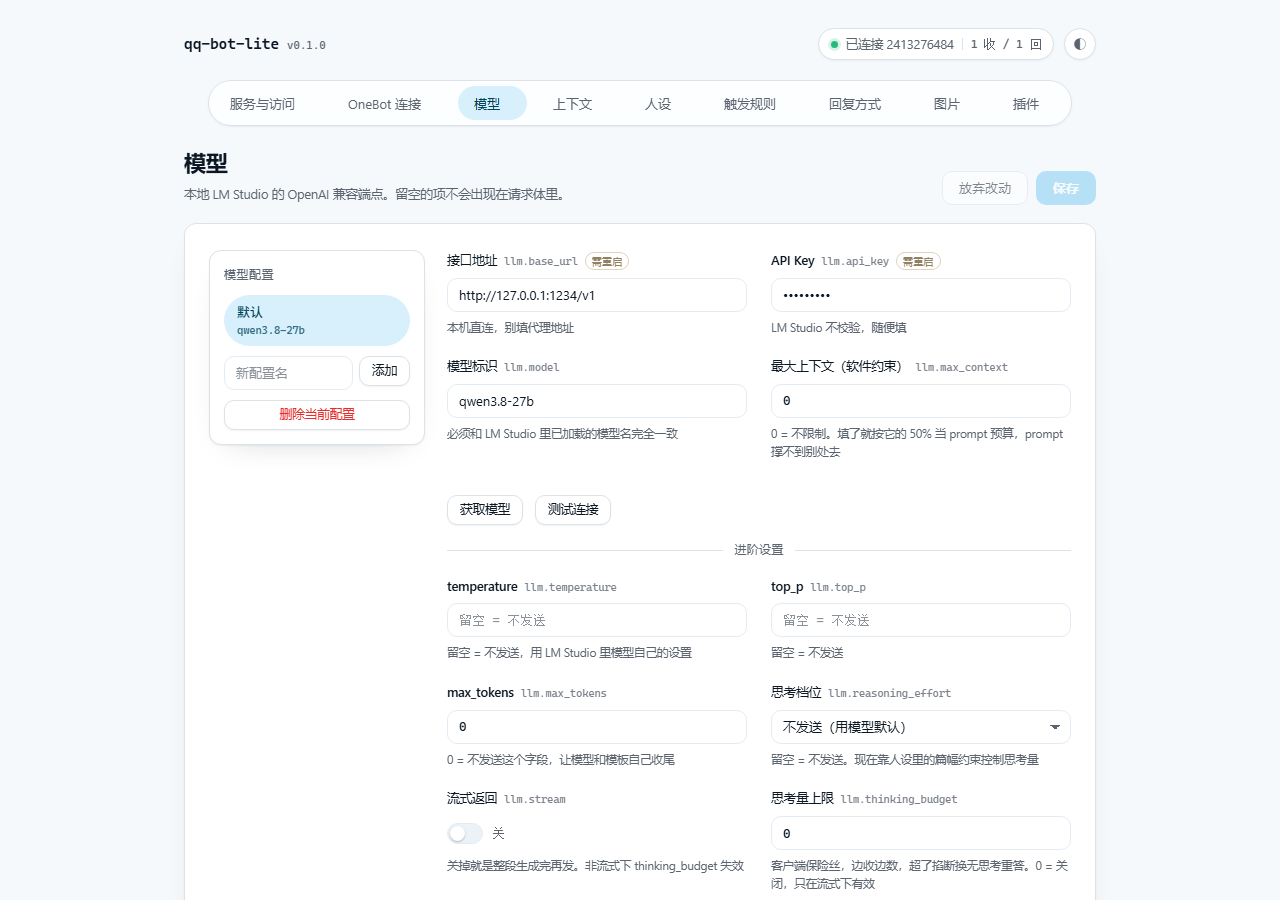
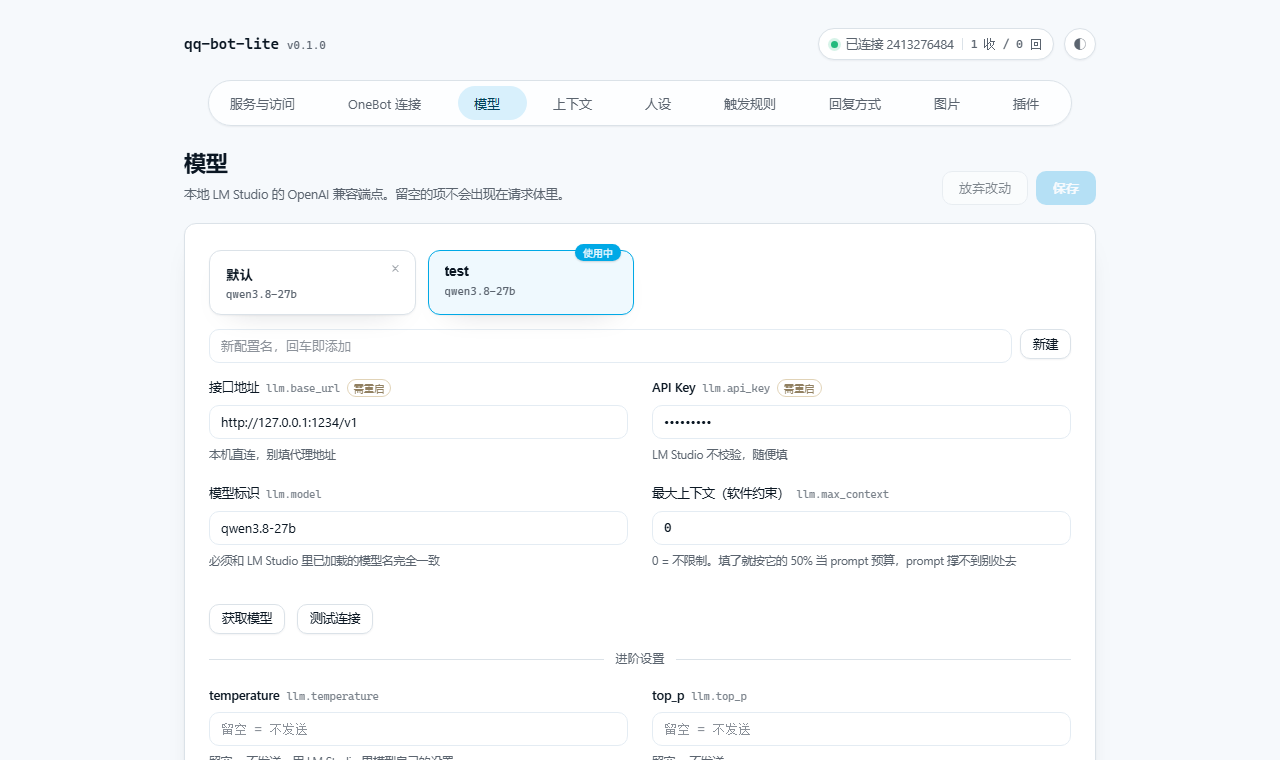
fix(web): 模型页改成和人设一样的方块卡片，删除改成卡上直接点
原来模型用左侧气泡 + 下方小卡片，与人设页不统一；而且“删除”只有
一个“删除当前配置”按钮：想删谁就得先选中谁，一选中它就成了正在使用，
永远删不掉，是个死循环。

- 两个面板共用一套实体卡片（entity-card）：名称 + 一行小字 + 使用中角标
- 非当前的卡片右上角有 × ，点了直接删；当前那张不给 ×，
  避免误删正在跑的那套
- 新增行统一成“输入框 + 新建”，回车即可提交
- 模型页去掉左栏，卡片在上、表单在下，与人设页布局一致
- 保存 llm.* 时会重建连接池，所以接口地址 / API Key 不再标“需重启”

diff --git a/app/web/static/panels.js b/app/web/static/panels.js
@@ -7,33 +7,30 @@ const PERSONAS = { items: [], active: "" };
 /* ---------- 模型 ---------- */
 
 function modelPanel(section) {
-  const wrap = el("div", "split-layout");
+  const wrap = el("div", "entity-panel");
 
-  const side = el("aside", "split-side");
-  side.append(el("div", "split-title", "模型配置"));
-  const list = el("div", "bubble-list");
+  const list = el("div", "entity-cards");
   list.id = "model-list";
-  side.append(list);
+  wrap.append(list);
 
-  const addRow = el("div", "split-add");
+  const addRow = el("div", "entity-add");
   const input = document.createElement("input");
   input.type = "text";
   input.id = "model-new";
-  input.placeholder = "新配置名";
-  const add = el("button", "btn btn-sm", "添加");
+  input.placeholder = "新配置名，回车即添加";
+  input.addEventListener("keydown", (event) => {
+    if (event.key === "Enter") {
+      event.preventDefault();
+      createModel();
+    }
+  });
+  const add = el("button", "btn btn-sm", "新建");
   add.type = "button";
   add.addEventListener("click", createModel);
   addRow.append(input, add);
-  side.append(addRow);
+  wrap.append(addRow);
 
-  const remove = el("button", "btn btn-sm split-danger", "删除当前配置");
-  remove.type = "button";
-  remove.id = "model-delete";
-  remove.addEventListener("click", deleteModel);
-  side.append(remove);
-  wrap.append(side);
-
-  const main = el("div", "split-main");
+  const main = el("div", "entity-body");
   const basic = el("div", "grid");
   const advanced = el("div", "grid");
   for (const field of section.fields) {
@@ -119,22 +116,47 @@ async function loadModels() {
   }
 }
 
+function entityCard({ title, meta, active, badge, onActivate, onDelete }) {
+  const card = el("button", "entity-card");
+  card.type = "button";
+  if (active) card.classList.add("active");
+  card.append(el("span", "entity-name", title));
+  card.append(el("span", "entity-meta", meta));
+  if (active && badge) card.append(el("span", "entity-badge", badge));
+  card.addEventListener("click", onActivate);
+
+  if (onDelete && !active) {
+    const del = el("span", "entity-del", "×");
+    del.setAttribute("role", "button");
+    del.setAttribute("title", "删除");
+    del.addEventListener("click", (event) => {
+      event.stopPropagation();
+      onDelete();
+    });
+    card.append(del);
+  }
+  return card;
+}
+
 function paintModels() {
   const list = $("model-list");
   if (!list) return;
   list.textContent = "";
   if (!MODELS.items.length) {
-    list.append(el("p", "hint", "还没有保存过的配置。改好参数后点「添加」存一套。"));
+    list.append(el("p", "hint", "还没有保存过的配置。改好参数后点「新建」存一套。"));
     return;
   }
   for (const item of MODELS.items) {
-    const button = el("button", "bubble");
-    button.type = "button";
-    if (item.active) button.classList.add("active");
-    button.append(el("span", "bubble-name", item.name));
-    button.append(el("span", "bubble-sub", item.model || "未指定模型"));
-    button.addEventListener("click", () => activateModel(item.name));
-    list.append(button);
+    list.append(
+      entityCard({
+        title: item.name,
+        meta: item.model || "未指定模型",
+        active: item.active,
+        badge: "使用中",
+        onActivate: () => activateModel(item.name),
+        onDelete: () => deleteModel(item.name),
+      }),
+    );
   }
 }
 
@@ -195,16 +217,16 @@ async function createModel() {
   }
 }
 
-async function deleteModel() {
-  if (!MODELS.active) {
-    toast("当前没有生效的配置", "bad");
+async function deleteModel(name) {
+  if (!name || name === MODELS.active) {
+    toast("正在用的配置不能删，先切到别的", "bad");
     return;
   }
   try {
     const response = await fetch("/api/models", {
       method: "POST",
       headers: { "Content-Type": "application/json" },
-      body: JSON.stringify({ action: "delete", name: MODELS.active }),
+      body: JSON.stringify({ action: "delete", name }),
     });
     const data = await response.json();
     if (!response.ok || !data.ok) {
@@ -213,7 +235,7 @@ async function deleteModel() {
     }
     MODELS.items = data.items || [];
     paintModels();
-    toast("已删除");
+    toast(`已删除「${name}」`);
   } catch (error) {
     toast(`删除失败：${error.message}`, "bad");
   }
@@ -222,23 +244,26 @@ async function deleteModel() {
 /* ---------- 人设 ---------- */
 
 function personaPanel() {
-  const wrap = el("div", "persona-panel");
-  const cards = el("div", "persona-cards");
+  const wrap = el("div", "entity-panel");
+  const cards = el("div", "entity-cards");
   cards.id = "persona-cards";
   wrap.append(cards);
 
-  const addRow = el("div", "split-add persona-add");
+  const addRow = el("div", "entity-add");
   const input = document.createElement("input");
   input.type = "text";
   input.id = "persona-new";
-  input.placeholder = "新人设名";
+  input.placeholder = "新人设名，回车即新建";
+  input.addEventListener("keydown", (event) => {
+    if (event.key === "Enter") {
+      event.preventDefault();
+      createPersona();
+    }
+  });
   const add = el("button", "btn btn-sm", "新建");
   add.type = "button";
   add.addEventListener("click", createPersona);
-  const remove = el("button", "btn btn-sm", "删除当前");
-  remove.type = "button";
-  remove.addEventListener("click", deletePersona);
-  addRow.append(input, add, remove);
+  addRow.append(input, add);
   wrap.append(addRow);
 
   const editor = el("div", "editor");
@@ -295,14 +320,16 @@ function paintPersonas() {
   if (!host) return;
   host.textContent = "";
   for (const item of PERSONAS.items) {
-    const card = el("button", "persona-card");
-    card.type = "button";
-    if (item.active) card.classList.add("active");
-    card.append(el("span", "persona-name", item.name));
-    card.append(el("span", "persona-meta", `${item.chars} 字`));
-    if (item.active) card.append(el("span", "persona-badge", "使用中"));
-    card.addEventListener("click", () => activatePersona(item.name));
-    host.append(card);
+    host.append(
+      entityCard({
+        title: item.name,
+        meta: `${item.chars} 字`,
+        active: item.active,
+        badge: "使用中",
+        onActivate: () => activatePersona(item.name),
+        onDelete: () => deletePersona(item.name),
+      }),
+    );
   }
 }
 
@@ -358,10 +385,13 @@ async function createPersona() {
   }
 }
 
-async function deletePersona() {
-  if (!PERSONAS.active) return;
+async function deletePersona(name) {
+  if (!name || name === PERSONAS.active) {
+    toast("正在用的人设不能删，先切到别的", "bad");
+    return;
+  }
   try {
-    const response = await fetch(`/api/personas/${encodeURIComponent(PERSONAS.active)}`, { method: "DELETE" });
+    const response = await fetch(`/api/personas/${encodeURIComponent(name)}`, { method: "DELETE" });
     const data = await response.json();
     if (!response.ok || !data.ok) {
       toast(data.message || "删除失败", "bad");
@@ -369,7 +399,7 @@ async function deletePersona() {
     }
     PERSONAS.items = data.items || [];
     paintPersonas();
-    toast("已删除，正在使用的人设不能删");
+    toast(`已删除「${name}」`);
   } catch (error) {
     toast(`删除失败：${error.message}`, "bad");
   }

diff --git a/app/web/static/style.css b/app/web/static/style.css
@@ -797,3 +797,86 @@ select {
   .split-layout { grid-template-columns: 1fr; }
   .split-side { position: static; }
 }
+
+/* ---------- 卡片列表（模型 / 人设共用） ---------- */
+
+.entity-panel { display: grid; gap: 14px; }
+.entity-cards {
+  display: grid;
+  grid-template-columns: repeat(auto-fill, minmax(188px, 1fr));
+  gap: 12px;
+}
+.entity-cards:empty { display: none; }
+
+.entity-card {
+  position: relative;
+  display: grid;
+  gap: 4px;
+  padding: 13px 16px;
+  text-align: left;
+  border: 1px solid var(--border);
+  border-radius: var(--radius);
+  background: var(--card);
+  color: var(--foreground);
+  cursor: pointer;
+  box-shadow: var(--shadow-card);
+  transition: border-color .15s ease, background .15s ease, transform .06s ease;
+}
+.entity-card:hover { border-color: color-mix(in oklab, var(--border) 45%, var(--muted-foreground)); }
+.entity-card:active { transform: translateY(1px); }
+.entity-card.active {
+  border-color: var(--ring);
+  background: color-mix(in oklab, var(--accent) 42%, var(--card));
+}
+.entity-name {
+  font-size: 13.5px;
+  font-weight: 600;
+  padding-right: 24px;
+  overflow: hidden;
+  text-overflow: ellipsis;
+  white-space: nowrap;
+}
+.entity-meta {
+  font-family: var(--mono);
+  font-size: 11px;
+  color: var(--muted-foreground);
+  overflow: hidden;
+  text-overflow: ellipsis;
+  white-space: nowrap;
+}
+.entity-badge {
+  position: absolute;
+  top: -7px;
+  right: 12px;
+  font-size: 10px;
+  padding: 1px 8px;
+  border-radius: 999px;
+  background: var(--primary);
+  color: var(--primary-foreground);
+  box-shadow: 0 1px 2px oklch(0% 0 0/.15);
+}
+.entity-del {
+  position: absolute;
+  top: 7px;
+  right: 8px;
+  width: 22px;
+  height: 22px;
+  display: grid;
+  place-items: center;
+  border-radius: 999px;
+  font-size: 15px;
+  line-height: 1;
+  color: var(--muted-foreground);
+  opacity: .55;
+  transition: background .15s ease, color .15s ease, opacity .15s ease;
+}
+.entity-card:hover .entity-del { opacity: 1; }
+.entity-del:hover {
+  background: color-mix(in oklab, var(--destructive) 16%, transparent);
+  color: var(--destructive);
+}
+
+.entity-add { display: flex; gap: 8px; }
+.entity-add input { flex: 1; min-width: 0; }
+.entity-add button { flex: none; }
+.entity-body { display: grid; gap: 16px; }

diff --git a/app/web/schema.py b/app/web/schema.py
@@ -81,8 +81,8 @@ SECTIONS: list[dict[str, Any]] = [
         "title": "模型",
         "desc": "本地 LM Studio 的 OpenAI 兼容端点。留空的项不会出现在请求体里。",
         "fields": [
-            _f("llm.base_url", "接口地址", help="本机直连，别填代理地址", restart=True),
-            _f("llm.api_key", "API Key", "password", help="LM Studio 不校验，随便填", restart=True),
+            _f("llm.base_url", "接口地址", help="本机直连，别填代理地址。保存时会重连，不用重启"),
+            _f("llm.api_key", "API Key", "password", help="LM Studio 不校验，随便填"),
             _f("llm.model", "模型标识", help="必须和 LM Studio 里已加载的模型名完全一致"),
             _f(
                 "llm.max_context",
@@ -349,3 +349,4 @@ _ADVANCED_KEYS = {
 for _section in SECTIONS:
     for _field in _section["fields"]:
         _field["group"] = "advanced" if _field["key"] in _ADVANCED_KEYS else "basic"
+

diff --git a/personas/test.md b/personas/test.md
@@ -1,0 +1,7 @@
+# test
+
+你是……
+
+## 回复风格
+
+- 每次回复不超过两句话，总字数严格控制在50字以内。
